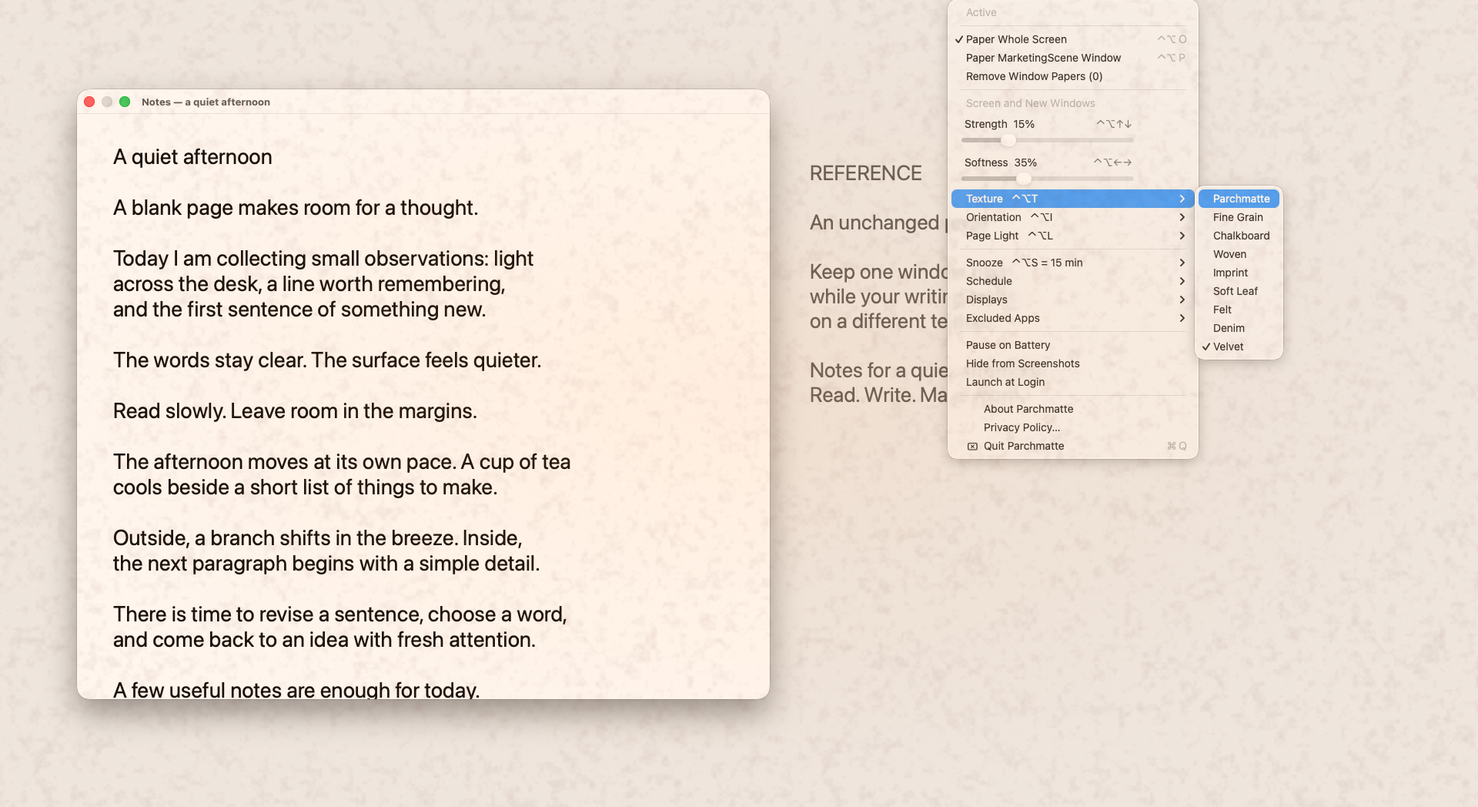
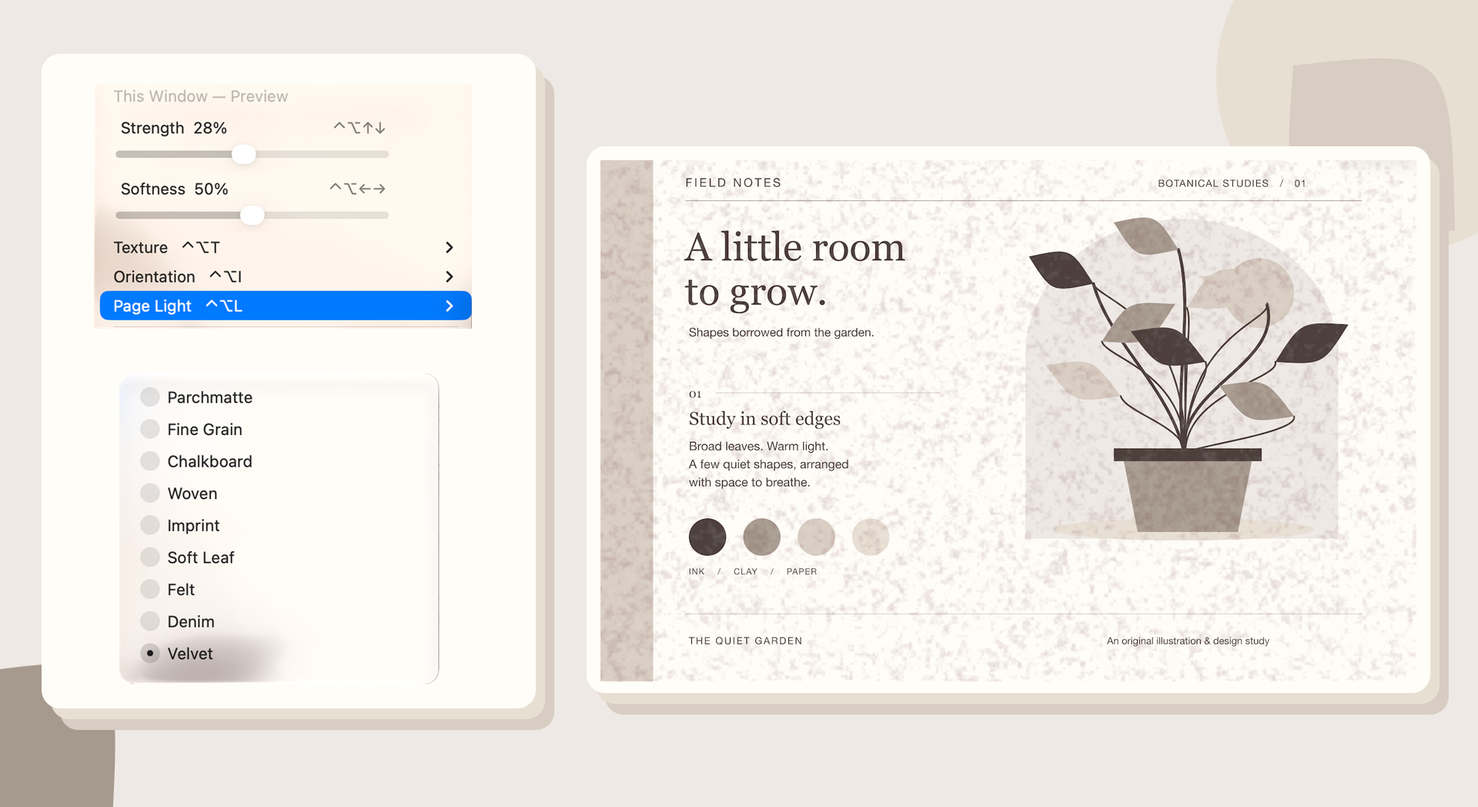
Site: Parchmatte 1.2.2 copy and repaired menu images (#33)
* Prepare 1.2.1 window styling and Page Light website update

* fix: align held website artwork and captions for 1.2.1

Use matching botanical application images and accurate settings captions,
with full-size menu access and consistent version labels.

* fix: replace affected native menu captures

Repair two screenshot compositions while preserving the botanical design and 1.2.1 version declarations.

Refs #84

* fix(media): use Retina captures for native menu details

* Update website for Parchmatte 1.2.2

Declare 1.2.2 in the site version, home page structured data, media
receipt, comparison page and guide. Describe the screenshot-picker
status in the What's New answer and keep the 1.2.1 highlights.
Restore a parseable receipt build field (1.2.2 (29)); per-image
provenance stays in the image records.

Refs Galactic-Luddite/parchmatte#84

---------

diff --git a/index.html b/index.html
@@ -3,8 +3,8 @@
 <head>
   <meta charset="utf-8">
   <meta name="viewport" content="width=device-width, initial-scale=1">
-  <title>Parchmatte: Paper Texture Overlay for Mac</title>
-  <meta name="description" content="Add paper texture to one window or your whole Mac screen. Adjust the grain and optional Page Light tint. On the Mac App Store. Requires macOS 13+.">
+  <title>Parchmatte: Paper Texture &amp; Matte Screen Effect for Mac</title>
+  <meta name="description" content="Give your Mac screen a softer, matte look with paper texture and optional light. Customize individual windows or your whole screen from the menu bar.">
   <meta name="apple-itunes-app" content="app-id=6815385110">
   <link rel="canonical" href="https://parchmatte.com/">
   <link rel="icon" href="/favicon.png" sizes="32x32" type="image/png">
@@ -14,12 +14,12 @@
   <meta property="og:type" content="website">
   <meta property="og:url" content="https://parchmatte.com/">
   <meta property="og:site_name" content="Parchmatte">
-  <meta property="og:title" content="Parchmatte: Paper Texture Overlay for Mac">
-  <meta property="og:description" content="Add paper texture to one window or your whole Mac screen. Adjust the grain and optional Page Light tint. On the Mac App Store. Requires macOS 13+.">
+  <meta property="og:title" content="Parchmatte: Paper Texture &amp; Matte Screen Effect for Mac">
+  <meta property="og:description" content="Give your Mac screen a softer, matte look with paper texture and optional light. Customize individual windows or your whole screen from the menu bar.">
   <meta property="og:image" content="https://parchmatte.com/images/og.jpg">
   <meta name="twitter:card" content="summary_large_image">
-  <meta name="twitter:title" content="Parchmatte: Paper Texture Overlay for Mac">
-  <meta name="twitter:description" content="Add paper texture to one window or your whole Mac screen. Adjust the grain and optional Page Light tint. On the Mac App Store. Requires macOS 13+.">
+  <meta name="twitter:title" content="Parchmatte: Paper Texture &amp; Matte Screen Effect for Mac">
+  <meta name="twitter:description" content="Give your Mac screen a softer, matte look with paper texture and optional light. Customize individual windows or your whole screen from the menu bar.">
   <meta name="twitter:image" content="https://parchmatte.com/images/og.jpg">
   <script type="application/ld+json">
 {
@@ -27,11 +27,17 @@
   "@type": "SoftwareApplication",
   "name": "Parchmatte",
   "url": "https://parchmatte.com/",
-  "description": "Nine paper textures for your Mac, over one window or the whole screen, including Velvet in Wine.",
-  "featureList": ["Nine adjustable paper textures, including Velvet in Wine", "Paper one window or the whole screen", "Optional Page Light with separate Light Strength and Glow"],
+  "description": "Adjustable paper texture and optional Page Light for individual Mac windows or the whole screen.",
+  "featureList": [
+    "Nine adjustable paper and cloth textures",
+    "Independent texture and light for each window, including windows in the same app",
+    "Six Page Light colors, three glow styles, four shapes and nine positions",
+    "Stay-open menu-bar customization",
+    "Display selection and frontmost-app pause rules"
+  ],
   "applicationCategory": "UtilitiesApplication",
   "operatingSystem": "macOS 13 or later",
-  "softwareVersion": "1.2",
+  "softwareVersion": "1.2.2",
   "image": "https://parchmatte.com/icon.png",
   "screenshot": "https://parchmatte.com/images/shots/01-overview.png",
   "author": {
@@ -66,8 +72,8 @@
   </header>
   <main id="main" class="wrap">
     <div class="intro">
-      <h1>Paper texture for your Mac.</h1>
-      <p class="lede">Add a paper texture overlay to one window or your whole screen. Adjust its strength and softness, then add an optional Page Light tint. Clicks, scrolling and typing pass through.</p>
+      <h1>A softer, matte look for your Mac screen.</h1>
+      <p class="lede">Add paper texture and gentle light to individual windows or your whole screen. Fine-tune the look right from your menu bar.</p>
       <div class="download">
         <a class="store-badge" href="https://apps.apple.com/us/app/parchmatte/id6815385110?mt=12"><picture><source srcset="/images/badges/mac-app-store-white.svg" media="(prefers-color-scheme: dark)"><img src="/images/badges/mac-app-store-black.svg" alt="Download on the Mac App Store" width="195" height="50"></picture></a>
 
@@ -76,10 +82,10 @@
       <p class="demo-link"><a href="#paper-in-use">See the texture and controls</a></p>
     </div>
     <section id="paper-in-use" aria-labelledby="paper-title">
-      <div class="section-intro"><h2 id="paper-title">One window, with your own paper.</h2><p>Give one window its own texture while the rest of your workspace stays as it is. You can also cover the whole screen. <a href="/guides/paper-texture-on-mac/">Learn how to add paper texture to one Mac window</a>.</p></div>
+      <div class="section-intro"><h2 id="paper-title">Your windows. Your look.</h2><p>Give individual windows their own texture and light, even two windows in the same app. Keep your writing window and reference document looking different, or use one look for the whole screen. <a href="/guides/paper-texture-on-mac/">Learn how to add paper texture to one Mac window</a>.</p></div>
     <figure class="hero-shot">
-      <a href="/images/shots/01-overview.png"><img class="shot" src="/images/shots/01-overview.png" sizes="(max-width: 960px) calc(100vw - 40px), 920px" width="1440" height="900" fetchpriority="high" alt="Parchmatte’s Velvet texture on one window of sample writing, with the reference area outside the window left plain"></a>
-      <figcaption>Paper texture on a writing window</figcaption>
+      <a href="/images/shots/01-overview.png"><img class="shot" src="/images/shots/01-overview.png" sizes="(max-width: 960px) calc(100vw - 40px), 920px" width="1920" height="970" fetchpriority="high" alt="Two Preview windows displaying the same botanical document, with Woven on the left and Velvet on the right."></a>
+      <figcaption>Independently styled Preview windows · Woven and Velvet · Strength 28%, Softness 50%, Page Light off</figcaption>
     </figure>
     </section>
 
@@ -94,18 +100,21 @@
         <h2 id="texture-title">Make it your paper.</h2>
         <p>Choose from nine textures: Parchmatte, Fine Grain, Chalkboard, Woven, Imprint, Soft Leaf, Felt, Denim and Velvet. Velvet adds a fine plush texture in Wine. Adjust strength and softness from the menu bar, with separate settings for a single window or the whole screen.</p>
       </div>
-      <figure><a href="/images/shots/09-velvet-writing.png"><img class="shot" src="/images/shots/09-velvet-writing.png" width="1440" height="900" loading="lazy" alt="Parchmatte’s fine plush Velvet texture in Wine across a sample writing workspace at 15% Strength and 35% Softness"></a><figcaption>Velvet in Wine · 15% Strength, 35% Softness, Page Light off</figcaption></figure>
-      <figure><img class="shot" src="/images/shots/02-menu.png" sizes="(max-width: 960px) calc(100vw - 40px), 920px" width="1920" height="1048" loading="lazy" alt="Parchmatte’s nine-texture menu with Velvet selected, Strength 15% and Softness 35%, over a sample writing workspace with Candlelight Page Light on"><figcaption>Nine textures, with Velvet selected · Candlelight Page Light on</figcaption></figure>
+      <figure><a href="/images/shots/09-velvet-writing.png"><img class="shot" src="/images/shots/09-velvet-writing.png" width="1440" height="900" loading="lazy" alt="A botanical design document with Parchmatte Velvet texture, framed on a shallow paper mount."></a><figcaption>Velvet · Strength 28%, Softness 50%, Page Light off</figcaption></figure>
+      <figure><a href="/images/shots/02-menu.png"><img class="shot" src="/images/shots/02-menu.png" sizes="(max-width: 960px) calc(100vw - 40px), 920px" width="1920" height="1048" loading="lazy" alt="Separate genuine Parchmatte menu details showing Preview window Strength 28%, Softness 50%, and Velvet selected among nine textures, beside a botanical document."></a><figcaption>Nine textures, with Velvet selected · Strength 28%, Softness 50%, Page Light off · Menu details and document shown separately</figcaption></figure>
     </section>
 
     <section class="product-section" aria-labelledby="light-title">
-      <div class="section-intro"><h2 id="light-title">Add optional Page Light.</h2><p>Add a tint alongside the paper texture. Choose a Page Light preset, then adjust Light Strength and Glow separately. Leave Page Light off when you want texture alone.</p></div>
+      <div class="section-intro"><h2 id="light-title">Add a little light.</h2><p>Choose from six Page Light colors and three glow styles. Shape the light with Oval, Round, Wide or Tall, then place it in the center, along an edge or in a corner. Adjust Light Strength separately from the paper, or turn Page Light off for texture alone.</p></div>
+      <figure class="light-controls-shot"><a href="/images/shots/10-light-shape-controls.png"><img class="shot" src="/images/shots/10-light-shape-controls.png" width="635" height="804" loading="lazy" alt="Separate native Page Light details showing Tall selected, Bottom Right position, and Light Strength 75%."></a><figcaption>Tall shape · Bottom Right · Light Strength 75% · Candlelight, Warm · Separate native menu details</figcaption></figure>
     </section>
+    <section class="product-section" aria-labelledby="controls-title"><div class="section-intro"><h2 id="controls-title">Simple controls. Right where you need them.</h2><p>Choose a texture, shape the light and adjust the sliders right from your menu bar. The customization controls stay open as you make changes. Clicks, scrolling and typing pass through to the apps underneath.</p></div></section>
     <section class="product-section" aria-labelledby="workspace-title">
-      <h2 id="workspace-title">Set it up for your workspace.</h2>
+      <h2 id="workspace-title">Fit your workspace.</h2>
       <dl class="feature-notes">
         <div><dt>On your schedule</dt><dd>Use sunrise and sunset or set your own hours. Snooze for a break or pause on battery.</dd></div>
-        <div><dt>Across your displays</dt><dd>Choose which displays to cover and which apps to exclude.</dd></div>
+        <div><dt>Choose your displays</dt><dd>Turn whole-screen paper on for the displays you want to use.</dd></div>
+        <div><dt>Choose when to pause</dt><dd>Exclude an app to pause paper while it is in front.</dd></div>
       </dl>
     </section>
 
@@ -134,8 +143,9 @@
     <section aria-labelledby="questions-title">
       <h2 id="questions-title">A few practical details</h2>
       <div class="faq">
-        <details><summary>What is new in Parchmatte 1.2?</summary><p>Velvet adds a fine plush texture in Wine, bringing the collection to nine textures. The starting Strength and Softness settings remain 15% and 35%.</p></details>
-        <details><summary>Does it get in the way?</summary><p>Clicks, scrolling and typing pass through the overlay. You can exclude apps, snooze Parchmatte, or pause it on battery.</p></details>
+        <details><summary>What is new in Parchmatte 1.2.2?</summary><p>The menu now shows “Paused — screenshot picker” while the screenshot picker is active, so it is clear why the paper is temporarily paused. Version 1.2.1 added four Page Light shapes and nine positions, with centered Oval as the default. Customization controls stay open while you make changes, and turning a window’s paper off and back on restores its style during the current app session.</p></details>
+        <details><summary>Can two windows in the same app look different?</summary><p>Yes. Each window with its own paper can have its own texture and light. Window choices are kept for the current app session; they are not saved as permanent per-app rules.</p></details>
+        <details><summary>Does it get in the way?</summary><p>Clicks, scrolling and typing pass through the overlay. Adjust the paper from your menu bar while you keep using your apps.</p></details>
         <details><summary>Does it appear in screenshots?</summary><p>By default, Parchmatte asks macOS to leave the overlay out of screenshots. Some capture tools may still include it.</p></details>
         <details><summary>What can Parchmatte see?</summary><p>Parchmatte reads window positions and sizes to place its overlays. It does not read window contents, window titles or your typing, collect personal data, or make network connections.</p></details>
         <details><summary>Where can I get Parchmatte?</summary><p>Parchmatte is available on the <a href="https://apps.apple.com/us/app/parchmatte/id6815385110?mt=12">Mac App Store</a>. The US price is $2.99; regional prices vary. Requires macOS 13 or later.</p></details>
@@ -159,7 +169,7 @@
       </div>
       <p class="small muted">Read the <a href="/privacy/">privacy policy</a> or <a href="mailto:support@parchmatte.com">contact support</a>.</p>
     </section>
-    <section class="closing"><h2>Give your Mac a paper texture.</h2><div class="download"><a class="store-badge" href="https://apps.apple.com/us/app/parchmatte/id6815385110?mt=12"><picture><source srcset="/images/badges/mac-app-store-white.svg" media="(prefers-color-scheme: dark)"><img src="/images/badges/mac-app-store-black.svg" alt="Download on the Mac App Store" width="195" height="50"></picture></a><p>US $2.99 on the Mac App Store. Regional prices vary. Requires macOS 13 or later.</p></div></section>
+    <section class="closing"><h2>Make your screen feel more like your page.</h2><div class="download"><a class="store-badge" href="https://apps.apple.com/us/app/parchmatte/id6815385110?mt=12"><picture><source srcset="/images/badges/mac-app-store-white.svg" media="(prefers-color-scheme: dark)"><img src="/images/badges/mac-app-store-black.svg" alt="Download on the Mac App Store" width="195" height="50"></picture></a><p>US $2.99 on the Mac App Store. Regional prices vary. Requires macOS 13 or later.</p></div></section>
   </main>
   <footer class="site-footer wrap">
     <span>Made by Galactic Luddite</span>

diff --git a/compare/index.html b/compare/index.html
@@ -39,7 +39,7 @@
   <main id="main" class="wrap">
     <div class="intro intro-compare"><h1>Compare paper texture and screen tint.</h1><p class="lede">Paper overlays add visible texture. Screen-tint tools change color. Compare the controls and choose the effect you want for your Mac.</p></div>
     <section class="alternatives" aria-labelledby="paper-apps-title"><h2 id="paper-apps-title">Paper texture apps for Mac</h2><p class="small muted">Vendor-described features; not independently tested. Official sources checked October 14, 2026. This comparison is written by Parchmatte’s maker.</p>
-      <div class="alternative"><h3>Parchmatte</h3><div><p>Nine paper textures for one window or the whole screen, including Velvet in Wine, adjustable strength and softness, and optional Page Light with separate Light Strength and Glow controls.</p><p><a href="/">Parchmatte features</a> · Parchmatte 1.2</p></div></div>
+      <div class="alternative"><h3>Parchmatte</h3><div><p>Nine paper textures for one window or the whole screen, including Velvet in Wine, adjustable strength and softness, and optional Page Light with separate Light Strength and Glow controls.</p><p><a href="/">Parchmatte features</a> · Parchmatte 1.2.2</p></div></div>
       <div class="alternative"><h3>Paperman</h3><div><p>The vendor describes paper textures across displays, app exclusions and display selection. Its Desk Lamp mode adds a light effect.</p><p><a href="https://paperman.cc/">Paperman official details</a> · October 14, 2026</p></div></div>
       <div class="alternative"><h3>PaperScreen</h3><div><p>The vendor describes Color E-paper textures and a separate Soft Light mode, with schedules, display choice and app exclusions.</p><p><a href="https://paperscreen.app/">PaperScreen official details</a> · October 14, 2026</p></div></div>
       <div class="alternative"><h3>Deckle</h3><div><p>The project describes a click-through paper-grain overlay with paper presets and display controls.</p><p><a href="https://github.com/Kelvanic/deckle">Deckle official project</a> · October 14, 2026</p></div></div>

diff --git a/guides/paper-texture-on-mac/index.html b/guides/paper-texture-on-mac/index.html
@@ -29,7 +29,7 @@
   </header>
   <main id="main" class="wrap">
     <div class="intro">
-      <p class="small muted"><a href="/">Parchmatte</a> / Guide · Parchmatte 1.2</p>
+      <p class="small muted"><a href="/">Parchmatte</a> / Guide · Parchmatte 1.2.2</p>
       <h1>Add paper texture to one Mac window.</h1>
       <p class="lede">Give a writing or reading window its own paper texture while keeping the rest of your workspace as it is. Here is how to set it up from Parchmatte’s menu bar controls.</p>
       <p>You will need Parchmatte open on a Mac running macOS 13 or later. It is available on the <a href="https://apps.apple.com/us/app/parchmatte/id6815385110?mt=12">Mac App Store</a>.</p>

diff --git a/style.css b/style.css
@@ -85,6 +85,7 @@ figure { margin: 0; }
 .store-badge:focus-visible { outline: 2px solid var(--accent); outline-offset: 6px; border-radius: 8px; }
 .shot { display: block; width: 100%; height: auto; border: 1px solid var(--rule); border-radius: 6px; }
 .hero-shot { margin-bottom: 0; }
+.light-controls-shot { max-width: 635px; margin-inline: auto; }
 section { padding-block: 40px; border-top: 1px solid var(--rule); }
 .section-intro { display: grid; grid-template-columns: 1fr 1.3fr; gap: 40px; margin-bottom: 26px; }
 .section-intro p { margin: 0; color: var(--ink-soft); }

diff --git a/scripts/tests/test_site_positioning.py b/scripts/tests/test_site_positioning.py
@@ -38,16 +38,16 @@ class SitePositioningTests(unittest.TestCase):
 
     def test_homepage_copy_and_section_sequence(self):
         source = (ROOT / "index.html").read_text()
-        self.assertIn("<title>Parchmatte: Paper Texture Overlay for Mac</title>", source)
-        self.assertIn("<h1>Paper texture for your Mac.</h1>", source)
-        description = "Add paper texture to one window or your whole Mac screen. Adjust the grain and optional Page Light tint. On the Mac App Store. Requires macOS 13+."
+        self.assertIn("<title>Parchmatte: Paper Texture &amp; Matte Screen Effect for Mac</title>", source)
+        self.assertIn("<h1>A softer, matte look for your Mac screen.</h1>", source)
+        description = "Give your Mac screen a softer, matte look with paper texture and optional light. Customize individual windows or your whole screen from the menu bar."
         for field in ('name="description"', 'property="og:description"', 'name="twitter:description"'):
             self.assertIn(field + ' content="' + description + '"', source)
-        headings = ["One window, with your own paper.", "One window or the whole screen", "Make it your paper.", "Add optional Page Light.", "Set it up for your workspace.", "Paper on a darker screen.", "Compare paper texture and screen tint.", "A few practical details", "Give your Mac a paper texture."]
+        headings = ["Your windows. Your look.", "One window or the whole screen", "Make it your paper.", "Add a little light.", "Simple controls. Right where you need them.", "Fit your workspace.", "Paper on a darker screen.", "Compare paper texture and screen tint.", "A few practical details", "Make your screen feel more like your page."]
         self.assertEqual([source.index(value) for value in headings], sorted(source.index(value) for value in headings))
         for retired in ("glare", "eye-care", "No permissions", "About 4 MB", "Nothing to give up"):
             self.assertNotIn(retired, source)
-        self.assertIn("Paper texture on a writing window", source)
+        self.assertIn("Independently styled Preview windows", source)
         self.assertEqual(source.count('alt="Download on the Mac App Store"'), 2)
 
     def test_metadata_and_shared_navigation(self):

diff --git a/docs/homepage-media.md b/docs/homepage-media.md
@@ -1,38 +1,34 @@
 # Homepage media
 
-This held 1.2 candidate uses actual Parchmatte 1.2.0 (27) captures alongside
-retained 1.1.0 (26) texture examples. Each image has its own provenance in
-[`homepage-media.json`](homepage-media.json); the top-level build is the release
-target, not a claim that every retained image came from that build.
+This local website candidate retains the four botanical compositions and two
+historical terminal examples. Botanical scenes retain their 1.2.1 (28)
+provenance. Native controls in 02-menu.png and 10-light-shape-controls.png were
+recaptured from installed TestFlight 1.2.2 (29). Per-image component provenance,
+hashes, sizes and visible settings are in [homepage-media.json](homepage-media.json).
 
-| Public file | Size | Build | What it shows |
-| --- | --- | --- | --- |
-| `images/shots/01-overview.png` | 1440x900 | 1.2.0 (27) | Velvet in Wine confined to one sample writing window; the reference area outside stays plain |
-| `images/shots/09-velvet-writing.png` | 1440x900 | 1.2.0 (27) | Velvet in Wine across the sample writing workspace |
-| `images/shots/02-menu.png` | 1920x1048 | 1.2.0 (27) | Nine-texture menu with Velvet selected, Strength 15%, Softness 35%, Candlelight on |
-| `images/shots/07-woven-terminal.png` | 1400x1300 | 1.1.0 (26) | Woven on a dark synthetic terminal demo |
-| `images/shots/08-denim-terminal.png` | 1400x1300 | 1.1.0 (26) | Denim on the same dark synthetic terminal demo |
+| Public file | What it shows |
+| --- | --- |
+| `01-overview.png` | Two Preview windows, Woven and Velvet; Strength 28%, Softness 50%, Page Light off |
+| `09-velvet-writing.png` | Botanical document with Velvet; Strength 28%, Softness 50%, Page Light off |
+| `02-menu.png` | Separate native menu details and retained document; Velvet selected among nine textures; document Strength 28%, Softness 50%, Page Light off |
+| `10-light-shape-controls.png` | Separate native menu details; Tall, Bottom Right, Light Strength 75%, Candlelight, Warm |
+| `07-woven-terminal.png` | Retained Woven terminal example |
+| `08-denim-terminal.png` | Retained Denim terminal example |
 
-The three 1.2 frames were captured on 2026-10-19 from source commit
-`007fcaff1090b2bb1a6ca9a5898e6a679ede294e`, Store-project ad-hoc Release,
-on macOS 26.7.1 (25G241), with a 1920x1080 display at scale 1.
-`/usr/sbin/screencapture` captured the physical desktop compositor at rectangle
-`80,90,1440,900`. The overview and Velvet scene use Strength 15%, Softness 35%, Page Light off, normal
-orientation and Hide from Screenshots disabled. The overview uses single-window
-paper; the Velvet scene uses whole-screen paper. The menu capture uses rectangle
-`0,32,1920,1048`, whole-screen Velvet, Candlelight on, Light Strength 60% and
-Glow Medium; Strength and Softness remain 15% and 35%. The writing and reference
-content are neutral sample material. Only ancillary PNG metadata was removed;
-IHDR and IDAT are preserved byte for byte, with no crop or resampling.
+The botanical exports use lossless RGB8 PNG. Ancillary metadata is removed
+without changing IHDR or compressed IDAT chunks. Separate native menu panels
+show actual captured controls, with editable alpha silhouettes excluding only
+pixels outside native windows and their outside shadows. Retina control crops
+are fitted at native pixel size or smaller; 1:1 placements use integer pixels.
+PhotoCraft converts the source display ICC profile to the destination
+workingRGB profile during composition. No UI text is retyped or darkened, and
+no texture or effect is enhanced. These are mixed-provenance compositions,
+not wholly recaptured build 29 scenes. All screenshots link to full-size
+images; fine labels in wide menu details require that view on narrow screens.
 
-The retained 1.1 terminal images were captured on 2026-10-10 at Strength 15%,
-Softness 35%, Page Light off, with the actual app overlay on a browser-rendered
-synthetic terminal demo. They are lossless 1400x1300 crops from 2880x1800 direct
-captures, with metadata removed. The crop re-encoded pixels but did not resample
-or edit the texture. Their original file and pixel hashes remain in the receipt.
-The demo source is `scripts/fixtures/terminal-demo.html`.
+The terminal examples are lossless crops of a synthetic terminal with the
+actual 1.1.0 (26) application overlay, at Strength 15%, Softness 35%, Page Light
+off. Their original hashes and settings are retained in the JSON receipt.
 
-Use `python3 scripts/strip_png_metadata.py INPUT.png OUTPUT.png` to remove
-ancillary capture metadata. These images are separate from historical Build 6
-App Store media in `release-media-build6.json`. The candidate remains held until
-1.2 is live and owner review is complete; no publication is authorized here.
+This candidate remains local. Public website PR33 is unchanged and held;
+public update and release-parity approval gates still apply.

diff --git a/README.md b/README.md
@@ -10,10 +10,11 @@ Plain HTML and CSS, with no site build step. Served by GitHub Pages from `main`.
 
 ## Website screenshots
 
-The held 1.2 candidate combines new Parchmatte 1.2.0 (27) captures with
-explicitly retained 1.1.0 (26) examples:
+The 1.2.2 homepage combines actual pre-submission Parchmatte 1.2.1 (28)
+captures with explicitly retained 1.2.0 (27) and 1.1.0 (26) examples:
 
-- `images/shots/01-overview.png` — Velvet on one writing window (1440x900, 1.2)
+- `images/shots/01-overview.png` — independently styled windows in the same app (1920x970, 1.2.1)
+- `images/shots/10-light-shape-controls.png` — actual native shape and position menu controls (635x804, 1.2.1)
 - `images/shots/09-velvet-writing.png` — whole-screen Velvet at 15% Strength and 35% Softness (1440x900, 1.2)
 - `images/shots/02-menu.png` — nine-texture menu with Velvet selected; Candlelight on (1920x1048, 1.2)
 - `images/shots/07-woven-terminal.png` and `08-denim-terminal.png` — retained 1.1 dark terminal examples (1400x1300)
@@ -76,8 +77,8 @@ responsive JPEGs in `images/shots/` remain historical Build 6 release media
 covered by `docs/release-media-build6.json`; the homepage no longer presents
 them as current app screenshots.
 
-This 1.2 candidate must remain held until the corresponding app version is live
-and owner review is complete. The home and
+The homepage describes Parchmatte 1.2.2, the version live on the Mac App Store.
+The home and
 comparison pages link to the listing with Apple's "Download on the Mac App
 Store" badge (`images/badges/`, black for light mode and white for dark mode,
 served unmodified per Apple's marketing guidelines), and the homepage offer
